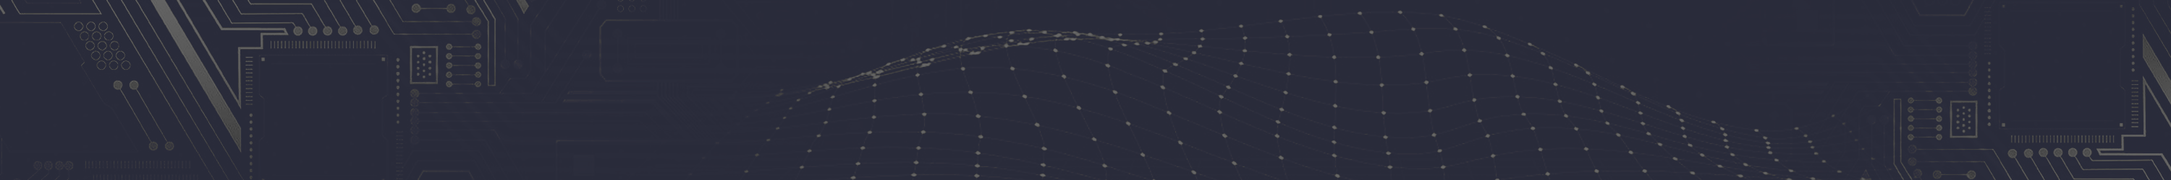
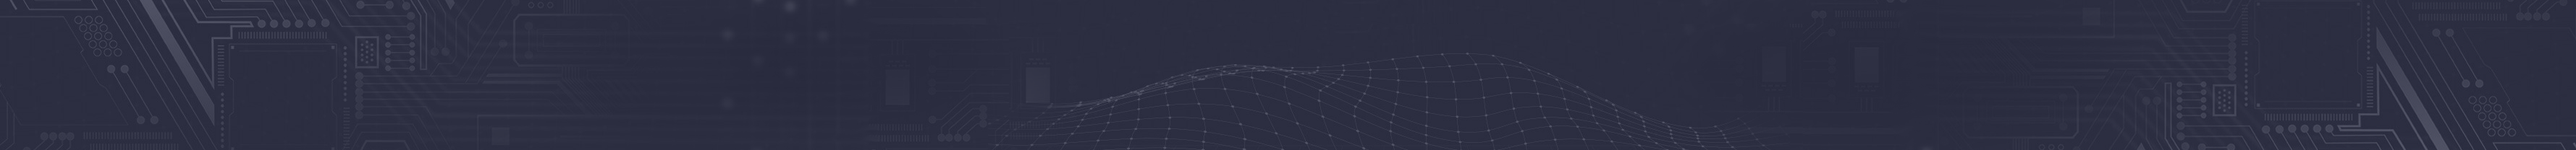
updated HQ navbar image

diff --git a/src/components/Footer.js b/src/components/Footer.js
@@ -4,34 +4,42 @@ import services from "services";
 
 export default function Footer(props) {
   return (
-    <footer className=" w-full flex justify-center px-2 py-4 bg-gray-200 text-white sm:px-4 shadow-xl dark:bg-[#2c2e3f] dark:border-gray-700 z-10">
+    <footer className=" w-full flex justify-center px-2 py-4 bg-[#0813ff] text-white sm:px-4 shadow-xl dark:bg-[#2c2e3f] dark:border-gray-700 z-10">
       {/* Bottom area */}
-      <div className="flex flex-row justify-between md:flex md:flex-row md:items-center md:justify-between py-1 border-t border-gray-300 dark:border-gray-500 w-screen max-w-6xl">
+      <div className="flex flex-row justify-between md:flex md:flex-row md:items-center md:justify-between py-1 border-t border-blue-400 dark:border-gray-500 w-screen max-w-6xl">
         {/* Copyrights note */}
-        <div className="flex text-sm text-gray-600 mr-4">
+        <div className="flex text-sm text-white mr-4">
           <div className="m-auto">
-            <a href="https://fantom.foundation">
-              <img
-                src={services.linking.static("images/fantom-ftm-logo.png")}
-                alt="Powered by Fantom."
-                className="inline-block object-scale-down w-10 h-10 m-2"
-              />
-              <span className="text-lg md:text-lg dark:text-white text-black">
-                Powered by Fantom
-              </span>
-            </a>
+            Fantom Explorer <span>&#169;</span>
+            {"   " + new Date().getFullYear()} - Developed by Fantom Foundation
           </div>
         </div>
         {/* Copyrights note */}
-        <div className="flex text-sm dark:text-gray-300 text-black mr-4">
-          <div className="m-auto">
-            Copyright <span>&#169;</span>
-            {"   " + new Date().getFullYear()} All rights reserved
-          </div>
-        </div>
-        <div className="flex text-sm text-gray-600 mr-4">
+        <div className="flex flex-row items-center text-sm text-gray-600 gap-4">
+          <a
+            className="py-2 cursor-pointer"
+            href="mailto:jonathan.cryptoguru@gmail.com"
+          >
+            <img
+              src={services.linking.static("images/telegram.svg")}
+              alt="mail"
+              srcSet=""
+              className="w-6"
+            />
+          </a>
+          <a
+            className="py-2 cursor-pointer"
+            href="mailto:jonathan.cryptoguru@gmail.com"
+          >
+            <img
+              src={services.linking.static("images/email.svg")}
+              alt="mail"
+              srcSet=""
+              className="w-6"
+            />
+          </a>
           <div
-            className="py-4 px-4 cursor-pointer"
+            className="py-2 cursor-pointer"
             onClick={() => props.handleDarkMode(!props.isDarkmode)}
           >
             {props.isDarkmode
